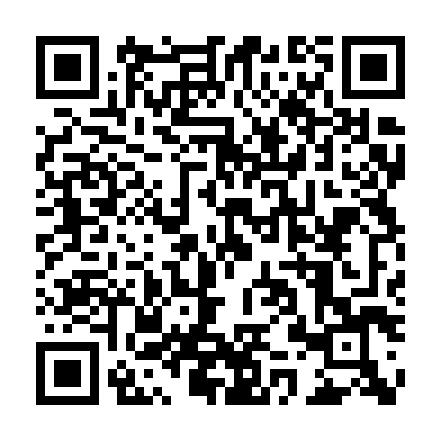
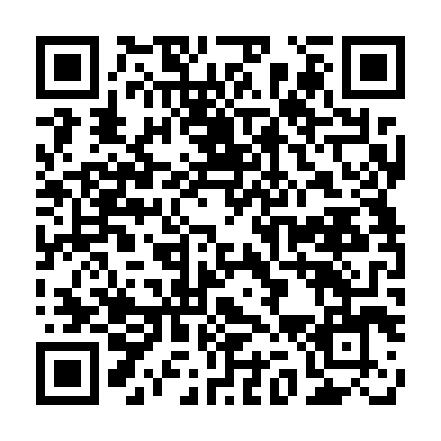
test

diff --git a/page.html b/page.html
@@ -5,44 +5,43 @@
                 background-repeat: no-repeat;
                 background-size: cover;
                 margin:0 auto;
-                width: 450px;
-                height: 220px;
+                
+                height: 40%;
                 position: relative;
-       z-index: 1;
+       z-index: 3;
             }
         .process_img{  /*显示动态barh*/
             background-image:url("./data/ourpicture.jpg");
             background-repeat: no-repeat;
             background-size: cover;
             margin:0 auto;
-            width: 360px;
-            height: 220px;
+            height: 30%;
             position: relative;
-    z-index: 1;
+    z-index: 2;
         }
       .show_txt{  /*显示文字*/
                 margin:0 auto;
                 background-color: azure;
-       width: 370px;
-                height: 200px;
+                height: 30%;
                 position: relative;
        text-align: center;
-       padding-top: 10px;
+     /*  padding-top: 10px;*/
        z-index: 1;
             }
     </style>
     </head>
     <body>
-        <div class="process_gif" id="process"></div> 
-        <div class="process_img" id="content_1"></div>
+        <div class="process_gif" id="process"></div>
+        <div class = "show_txt", id="content_1"></div> 
+        <div class="process_img" id="content_2"></div>
     </body>
 
-    <!-- <script type="text/javascript">
+    <script type="text/javascript">
         /// 显示文字功能 ----------------------------------
         let divTyping = document.getElementById('content_1'); //通过id获取div节点
         let a = 0;
         timer = 0;
-        str = "我们已经相遇 20 天<br>告白后过了 13 天<br>First Kiss 至今 5 天";
+        str = "梦里有你<br>涵生欢喜";
         function typing () {
          if (a <= str.length) { 
             divTyping.innerHTML = str.slice(0, a++) + '_';
@@ -61,4 +60,4 @@
           // thisdiv.style.backgroundImage = "url('./process_stop.png')"; 
                },2000);
         }
-       </script> -->
+       </script>

diff --git a/QR_image.py b/QR_image.py
@@ -2,7 +2,7 @@ from MyQR import myqr # 需先安装MyQR库
 
 def QR_myqr():
     myqr.run(
-        'https://flying-gwx.github.io/ForYou/test.gif', # 二维码指向链接，或无格式文本（但不支持中文）
+        'https://flying-gwx.github.io/ForYou/page.html', # 二维码指向链接，或无格式文本（但不支持中文）
         version = 5, # 大小1~40
         level='H', # 纠错级别
        # picture = 'img.jpg', # 底图路径
